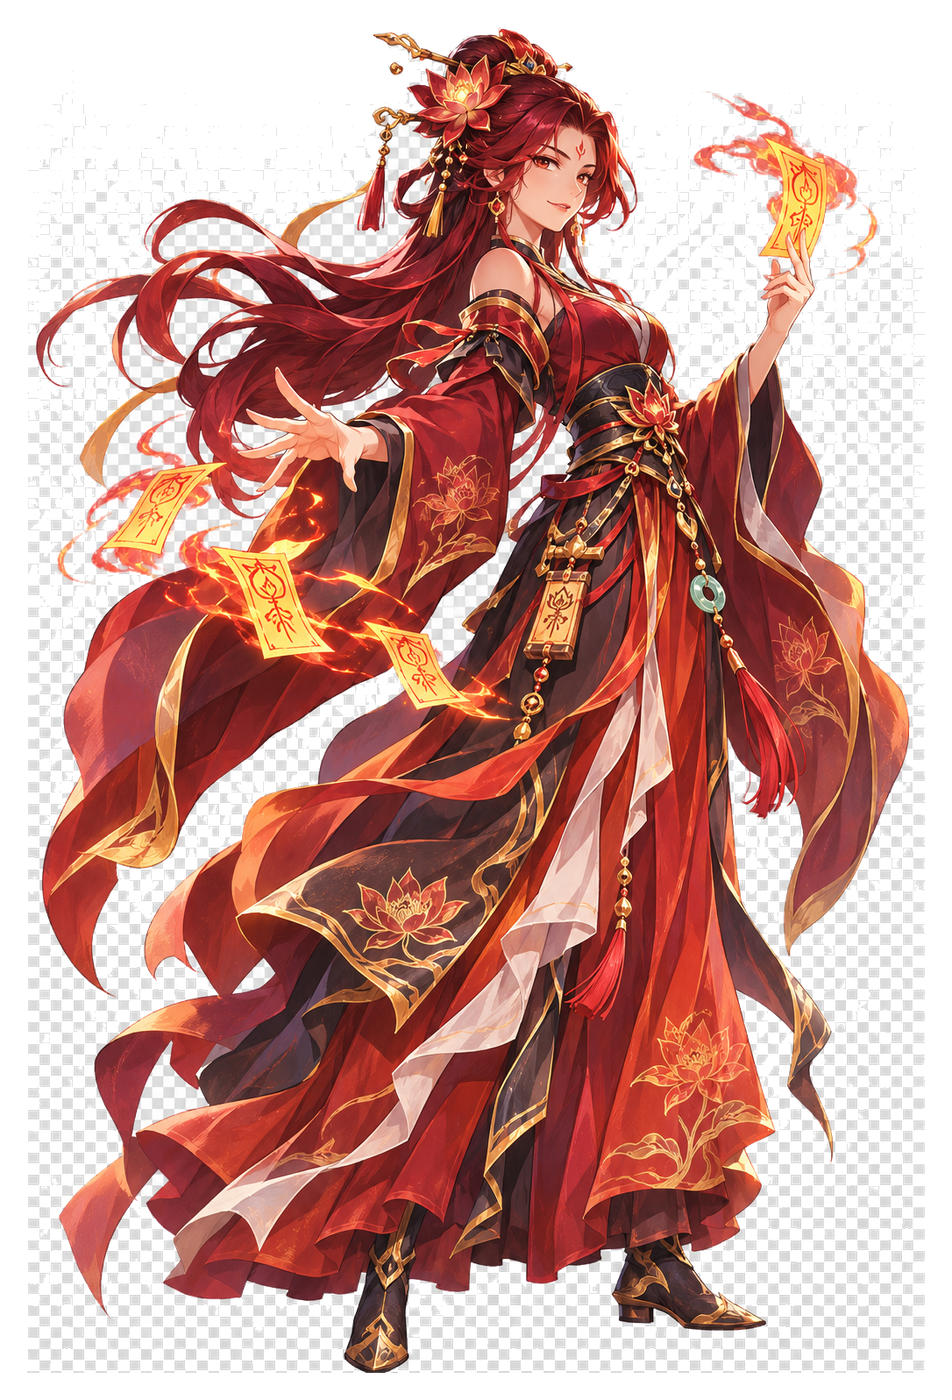
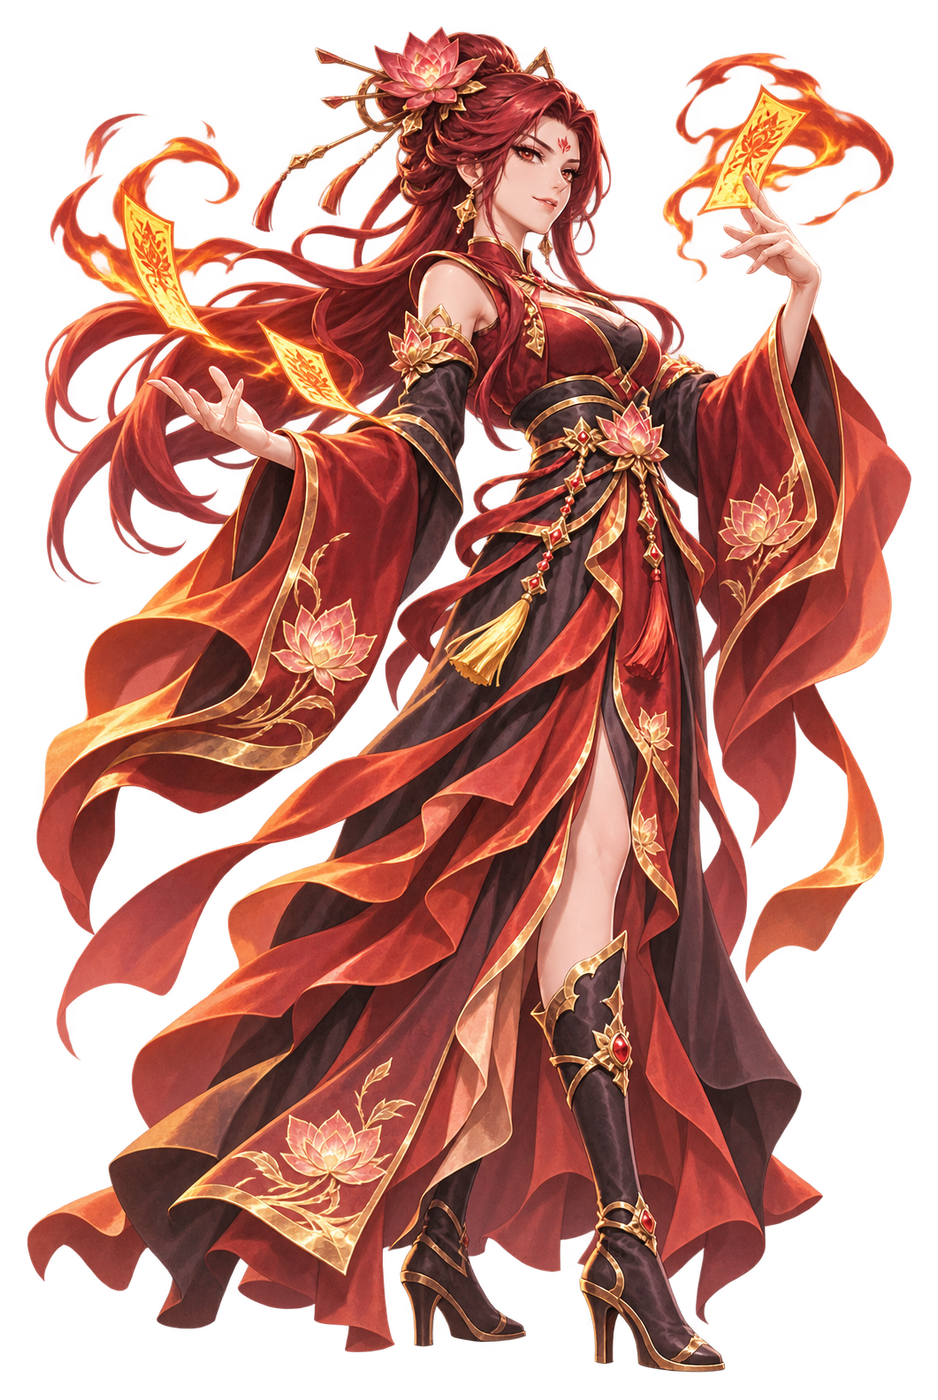
Art: all 16 disciple portraits + first enemy sprites; animated sprite-pack loader

diff --git a/src/battle/view/UnitView.ts b/src/battle/view/UnitView.ts
@@ -1,25 +1,19 @@
-import { Assets, ColorMatrixFilter, Container, Graphics, Sprite, Text, TextStyle, Texture } from 'pixi.js';
+import { AnimatedSprite, ColorMatrixFilter, Container, Graphics, Sprite, Text, TextStyle, Texture } from 'pixi.js';
 import gsap from 'gsap';
 import type { Unit } from '@/battle/sim/unit';
 import { STATUS_COLORS } from './Vfx';
+import { loadSpritePack, type SpritePack } from './SpritePack';
+import { loadUnitTexture } from './textures';
 
 const UNIT_HEIGHT = 150;
-
-/** Attempts to load a static sprite texture for a unit; caches misses. */
-const texCache = new Map<string, Promise<Texture | null>>();
-export function loadUnitTexture(sprite: string): Promise<Texture | null> {
-  let p = texCache.get(sprite);
-  if (!p) {
-    p = Assets.load<Texture>(`./assets/art/sprites/${sprite}.png`).catch(() => null);
-    texCache.set(sprite, p);
-  }
-  return p;
-}
 
 export class UnitView extends Container {
   readonly unit: Unit;
   private body = new Container();
-  private figure: Container | Sprite | null = null;
+  private figure: Container | Sprite | AnimatedSprite | null = null;
+  private pack: SpritePack | null = null;
+  private anim: AnimatedSprite | null = null;
+  private currentAnim = 'idle';
   private shadow = new Graphics();
   private aura: Graphics;
   private bars = new Container();
@@ -32,13 +26,14 @@ export class UnitView extends Container {
   private baseScale: number;
   private auraColor = 0x3fbf9f;
   private auraAlpha = 0.35;
+  private hasRealArt = false;
   dead = false;
   barWidth: number;
 
   constructor(unit: Unit) {
     super();
     this.unit = unit;
-    this.baseScale = unit.visualScale * (unit.boss ? 1 : 1);
+    this.baseScale = unit.visualScale;
     this.barWidth = unit.boss ? 160 : unit.elite ? 100 : 74;
 
     this.shadow.ellipse(0, 0, 34 * this.baseScale, 12 * this.baseScale).fill({ color: 0x000000, alpha: 0.45 });
@@ -55,7 +50,7 @@ export class UnitView extends Container {
     this.brightness.enabled = false;
 
     this.buildPlaceholder();
-    void this.tryLoadSprite();
+    void this.tryLoadArt();
 
     this.bars.y = -UNIT_HEIGHT * this.baseScale - 26;
     this.addChild(this.bars);
@@ -76,17 +71,57 @@ export class UnitView extends Container {
     this.refreshBars();
   }
 
-  private async tryLoadSprite(): Promise<void> {
+  /** Prefer an animated sprite pack, then a static PNG, else keep the procedural placeholder. */
+  private async tryLoadArt(): Promise<void> {
+    const pack = await loadSpritePack(this.unit.sprite);
+    if (this.destroyed) return;
+    if (pack && pack.anims.idle?.length) {
+      this.pack = pack;
+      const a = new AnimatedSprite(pack.anims.idle);
+      a.anchor.set(0.5 + (pack.def.anchorX ?? 0) / pack.def.frameW, pack.def.anchorY ?? 0.96);
+      const h = (pack.def.height ?? UNIT_HEIGHT) * this.baseScale;
+      a.scale.set(h / pack.def.frameH);
+      a.animationSpeed = (pack.def.animations.idle.fps ?? pack.def.fps) / 60;
+      a.loop = true;
+      a.play();
+      this.body.removeChildren();
+      this.figure = a;
+      this.anim = a;
+      this.body.addChild(a);
+      this.hasRealArt = true;
+      return;
+    }
     const tex = await loadUnitTexture(this.unit.sprite);
     if (!tex || this.destroyed) return;
     const s = new Sprite(tex);
     s.anchor.set(0.5, 1);
     const h = UNIT_HEIGHT * this.baseScale;
-    const sc = h / s.texture.height;
-    s.scale.set(sc);
+    s.scale.set(h / s.texture.height);
     this.body.removeChildren();
     this.figure = s;
     this.body.addChild(s);
+    this.hasRealArt = true;
+  }
+
+  /** Plays a pack animation if available; returns true when handled. */
+  private playAnim(name: string, onDone?: () => void): boolean {
+    const a = this.anim;
+    const frames = this.pack?.anims[name];
+    if (!a || !frames || frames.length === 0) return false;
+    const def = this.pack!.def.animations[name];
+    this.currentAnim = name;
+    a.textures = frames;
+    a.animationSpeed = (def.fps ?? this.pack!.def.fps) / 60;
+    a.loop = !!def.loop;
+    a.gotoAndPlay(0);
+    if (!def.loop) {
+      a.onComplete = () => {
+        a.onComplete = undefined;
+        onDone?.();
+        if (!this.dead) this.playAnim('idle');
+      };
+    }
+    return true;
   }
 
   /** Procedural "paper cutout" cultivator used until real art is loaded. */
@@ -97,38 +132,26 @@ export class UnitView extends Container {
     const s = this.baseScale;
     const g = new Graphics();
     if (u.side === 'ally') {
-      // robe
       g.moveTo(-26 * s, 0).lineTo(26 * s, 0).lineTo(16 * s, -78 * s).lineTo(-16 * s, -78 * s).closePath().fill({ color: accent });
       g.moveTo(-26 * s, 0).lineTo(26 * s, 0).lineTo(20 * s, -24 * s).lineTo(-20 * s, -24 * s).closePath().fill({ color: 0x000000, alpha: 0.25 });
-      // sash
       g.rect(-17 * s, -50 * s, 34 * s, 7 * s).fill({ color: 0xf3cf78 });
-      // shoulders
       g.ellipse(0, -80 * s, 22 * s, 9 * s).fill({ color: darken(accent, 0.75) });
-      // head
       g.circle(0, -100 * s, 17 * s).fill({ color: 0xf1d2b0 });
-      // hair
       g.arc(0, -102 * s, 17 * s, Math.PI, Math.PI * 2).fill({ color: 0x1b1a24 });
       g.rect(-17 * s, -104 * s, 34 * s, 6 * s).fill({ color: 0x1b1a24 });
-      // topknot
       g.circle(0, -121 * s, 6 * s).fill({ color: 0x1b1a24 });
-      // weapon hint
       if (u.classes.includes('sword')) g.moveTo(22 * s, -70 * s).lineTo(40 * s, -130 * s).stroke({ color: 0xdfe9ea, width: 3 * s });
       if (u.classes.includes('martial')) g.moveTo(-30 * s, -20 * s).lineTo(-30 * s, -140 * s).stroke({ color: 0xb08a5a, width: 4 * s });
       if (u.classes.includes('talisman') || u.classes.includes('array')) g.circle(30 * s, -90 * s, 8 * s).fill({ color: 0xffe066, alpha: 0.9 });
     } else {
       const dark = u.boss ? 0x3b1020 : 0x2a1a24;
-      // beast / demon body
       g.ellipse(0, -40 * s, 36 * s, 42 * s).fill({ color: dark });
       g.ellipse(0, -40 * s, 30 * s, 34 * s).fill({ color: darken(accent, 0.5), alpha: 0.7 });
-      // head
       g.circle(0, -92 * s, 20 * s).fill({ color: dark });
-      // horns
       g.moveTo(-12 * s, -106 * s).lineTo(-26 * s, -134 * s).lineTo(-4 * s, -110 * s).closePath().fill({ color: accent });
       g.moveTo(12 * s, -106 * s).lineTo(26 * s, -134 * s).lineTo(4 * s, -110 * s).closePath().fill({ color: accent });
-      // eyes
       g.circle(-7 * s, -94 * s, 3.5 * s).fill({ color: 0xff6b5a });
       g.circle(7 * s, -94 * s, 3.5 * s).fill({ color: 0xff6b5a });
-      // claws
       g.moveTo(-34 * s, -30 * s).lineTo(-48 * s, -8 * s).stroke({ color: accent, width: 3 * s });
       g.moveTo(34 * s, -30 * s).lineTo(48 * s, -8 * s).stroke({ color: accent, width: 3 * s });
     }
@@ -138,7 +161,6 @@ export class UnitView extends Container {
       style: new TextStyle({ fontFamily: 'Ma Shan Zheng', fontSize: 26 * s, fill: '#ffffff', stroke: { color: '#000000', width: 3 } }),
     });
     glyph.anchor.set(0.5);
-    glyph.x = 0;
     glyph.y = u.side === 'ally' ? -40 * s : -42 * s;
     c.addChild(glyph);
     this.figure = c;
@@ -146,16 +168,13 @@ export class UnitView extends Container {
   }
 
   setFacing(f: 1 | -1): void {
-    this.body.scale.x = f;
+    this.body.scale.x = f * Math.abs(this.body.scale.x || 1);
   }
 
-  /** Called every frame. */
   update(time: number, idleSpeed = 1): void {
     if (this.dead) return;
-    const u = this.unit;
-    // idle bob
-    const bob = Math.sin(time * 2.2 * idleSpeed + this.bob) * 2;
-    this.body.y = bob;
+    // idle bob only for non-animated figures
+    if (!this.anim) this.body.y = Math.sin(time * 2.2 * idleSpeed + this.bob) * (this.hasRealArt ? 1.5 : 2);
     this.aura.alpha = this.auraAlpha + Math.sin(time * 3 + this.bob) * 0.1;
     this.refreshBars();
   }
@@ -172,7 +191,6 @@ export class UnitView extends Container {
     g.rect(-w / 2, -h, w * hp, h).fill({ color: u.side === 'ally' ? 0x4fd36a : 0xd7382c });
     if (hp > 0) g.rect(-w / 2, -h, w * hp, h * 0.4).fill({ color: 0xffffff, alpha: 0.18 });
     if (shield > 0) g.rect(-w / 2, -h, w * Math.min(1, shield), h).fill({ color: 0xbfe4ff, alpha: 0.85 });
-    // segment ticks every 500 hp for bosses
     if (u.boss) {
       const segs = Math.floor(u.maxHp / 1000);
       for (let i = 1; i < segs; i++) {
@@ -187,7 +205,6 @@ export class UnitView extends Container {
       q.roundRect(-w / 2 - 1, 2, w + 2, qh + 2, 1).fill({ color: 0x000000, alpha: 0.7 });
       q.rect(-w / 2, 3, w * Math.min(1, u.qi / u.maxQi), qh).fill({ color: 0x5ab8ff });
     }
-    // statuses
     this.statusRow.removeChildren();
     const chips: { color: number; text: string }[] = [];
     if (u.burns.length) chips.push({ color: STATUS_COLORS.burn, text: `${Math.round(u.burns.reduce((a, b) => a + b.dps, 0))}` });
@@ -195,9 +212,6 @@ export class UnitView extends Container {
     if (u.frost > 0) chips.push({ color: STATUS_COLORS.frost, text: `${Math.round(u.frost)}` });
     if (u.bleeds.length) chips.push({ color: STATUS_COLORS.bleed, text: '' });
     if (u.tauntTargetId !== null) chips.push({ color: STATUS_COLORS.taunt, text: '!' });
-    if (u.isDisabled(Infinity) === false && (u.stunUntil > 0 || u.frozenUntil > 0)) {
-      /* no-op */
-    }
     let x = -((chips.length - 1) * 24) / 2;
     for (const ch of chips) {
       const c = new Graphics();
@@ -222,10 +236,14 @@ export class UnitView extends Container {
     return -UNIT_HEIGHT * this.baseScale * 0.5;
   }
 
-  /** Lunge toward facing direction. */
   attackAnim(ranged: boolean): void {
     const dir = this.body.scale.x >= 0 ? 1 : -1;
     const tl = gsap.timeline();
+    if (this.playAnim('attack')) {
+      // small forward push even with sheet animation for impact
+      tl.to(this.body, { x: 10 * dir, duration: 0.1, ease: 'power2.out' }).to(this.body, { x: 0, duration: 0.3, ease: 'power2.out' });
+      return;
+    }
     if (ranged) {
       tl.to(this.body, { x: -10 * dir, duration: 0.08, ease: 'power2.out' }).to(this.body, { x: 0, duration: 0.25, ease: 'power2.out' });
       tl.to(this.body.scale, { y: 1.06, duration: 0.08, yoyo: true, repeat: 1 }, 0);
@@ -236,14 +254,17 @@ export class UnitView extends Container {
   }
 
   castAnim(): void {
-    const tl = gsap.timeline();
-    tl.to(this.body.scale, { y: 1.12, duration: 0.15, ease: 'power2.out' }).to(this.body.scale, { y: 1, duration: 0.25, ease: 'back.out(2)' });
+    if (!this.playAnim('cast') && !this.playAnim('attack')) {
+      const tl = gsap.timeline();
+      tl.to(this.body.scale, { y: 1.12, duration: 0.15, ease: 'power2.out' }).to(this.body.scale, { y: 1, duration: 0.25, ease: 'back.out(2)' });
+    }
     this.pulseAura(0xffffff, 0.9, 0.5);
   }
 
   hurtAnim(crit: boolean): void {
     this.flash(crit ? 2.2 : 1.6, crit ? 0.14 : 0.09);
     const dir = this.body.scale.x >= 0 ? 1 : -1;
+    if (this.currentAnim === 'idle') this.playAnim('hurt');
     gsap.fromTo(this.body, { x: -6 * dir }, { x: 0, duration: 0.18, ease: 'power2.out', overwrite: 'auto' });
   }
 
@@ -260,10 +281,20 @@ export class UnitView extends Container {
     const g = this.aura;
     g.clear();
     g.ellipse(0, 0, 38 * this.baseScale, 14 * this.baseScale).stroke({ color, width: 3, alpha: 0.9 });
-    gsap.fromTo(g, { alpha }, { alpha: this.auraAlpha, duration, ease: 'power2.out', overwrite: 'auto', onComplete: () => {
-      g.clear();
-      g.ellipse(0, 0, 38 * this.baseScale, 14 * this.baseScale).stroke({ color: this.auraColor, width: 3, alpha: 0.9 });
-    } });
+    gsap.fromTo(
+      g,
+      { alpha },
+      {
+        alpha: this.auraAlpha,
+        duration,
+        ease: 'power2.out',
+        overwrite: 'auto',
+        onComplete: () => {
+          g.clear();
+          g.ellipse(0, 0, 38 * this.baseScale, 14 * this.baseScale).stroke({ color: this.auraColor, width: 3, alpha: 0.9 });
+        },
+      },
+    );
   }
 
   setAura(color: number, alpha: number): void {
@@ -277,8 +308,8 @@ export class UnitView extends Container {
     this.dead = true;
     this.bars.visible = false;
     const dir = this.body.scale.x >= 0 ? 1 : -1;
-    gsap.to(this.body, { rotation: -0.35 * dir, y: 10, duration: 0.5, ease: 'power2.in' });
-    gsap.to(this, { alpha: 0, duration: 0.7, delay: 0.3, ease: 'power1.in' });
+    if (!this.playAnim('death')) gsap.to(this.body, { rotation: -0.35 * dir, y: 10, duration: 0.5, ease: 'power2.in' });
+    gsap.to(this, { alpha: 0, duration: 0.7, delay: 0.5, ease: 'power1.in' });
     gsap.to(this.shadow, { alpha: 0, duration: 0.5 });
     this.brightness.reset();
     this.brightness.desaturate();
@@ -295,6 +326,7 @@ export class UnitView extends Container {
     this.body.y = 0;
     this.alpha = 1;
     this.shadow.alpha = 1;
+    this.playAnim('idle');
     gsap.fromTo(this.body.scale, { y: 0.4 }, { y: 1, duration: 0.5, ease: 'back.out(2)' });
   }
 
@@ -317,3 +349,5 @@ export function darken(c: number, f: number): number {
   const b = Math.round((c & 255) * f);
   return (r << 16) | (g << 8) | b;
 }
+
+export { loadUnitTexture, type Texture };

diff --git a/src/battle/view/SpritePack.ts b/src/battle/view/SpritePack.ts
@@ -1,0 +1,58 @@
+import { Assets, Rectangle, Texture } from 'pixi.js';
+
+/**
+ * Animated sprite packs live in /assets/art/sprites/<id>/pack.json with horizontal strip sheets:
+ * {
+ *   "frameW": 256, "frameH": 256, "fps": 12, "anchorY": 0.96,
+ *   "animations": { "idle": { "sheet": "idle.png", "frames": 12, "loop": true }, "attack": { "sheet": "attack.png", "frames": 10, "hitFrame": 5 }, ... }
+ * }
+ * Autosprite exports are converted into this format by scripts/convert-autosprite.mjs.
+ */
+export interface SpritePackDef {
+  frameW: number;
+  frameH: number;
+  fps: number;
+  anchorY?: number;
+  /** Horizontal offset of the feet from the frame center, in frame pixels. */
+  anchorX?: number;
+  /** Visual height in design pixels at scale 1 (defaults to 150). */
+  height?: number;
+  animations: Record<string, { sheet: string; frames: number; loop?: boolean; hitFrame?: number; fps?: number; rows?: number; cols?: number }>;
+}
+
+export interface SpritePack {
+  def: SpritePackDef;
+  anims: Record<string, Texture[]>;
+}
+
+const cache = new Map<string, Promise<SpritePack | null>>();
+
+export function loadSpritePack(id: string): Promise<SpritePack | null> {
+  let p = cache.get(id);
+  if (!p) {
+    p = load(id).catch(() => null);
+    cache.set(id, p);
+  }
+  return p;
+}
+
+async function load(id: string): Promise<SpritePack | null> {
+  const base = `./assets/art/sprites/${id}/`;
+  const res = await fetch(`${base}pack.json`, { cache: 'force-cache' });
+  if (!res.ok) return null;
+  const def = (await res.json()) as SpritePackDef;
+  const anims: Record<string, Texture[]> = {};
+  for (const [name, a] of Object.entries(def.animations)) {
+    const sheet = await Assets.load<Texture>(`${base}${a.sheet}`);
+    const cols = a.cols ?? Math.max(1, Math.floor(sheet.width / def.frameW));
+    const frames: Texture[] = [];
+    for (let i = 0; i < a.frames; i++) {
+      const col = i % cols;
+      const row = Math.floor(i / cols);
+      const frame = new Rectangle(col * def.frameW, row * def.frameH, def.frameW, def.frameH);
+      frames.push(new Texture({ source: sheet.source, frame }));
+    }
+    anims[name] = frames;
+  }
+  return { def, anims };
+}

diff --git a/src/battle/view/textures.ts b/src/battle/view/textures.ts
@@ -1,0 +1,18 @@
+import { Assets, Texture } from 'pixi.js';
+
+/** Attempts to load a static sprite texture for a unit; caches misses. */
+const texCache = new Map<string, Promise<Texture | null>>();
+
+export function loadUnitTexture(sprite: string): Promise<Texture | null> {
+  let p = texCache.get(sprite);
+  if (!p) {
+    p = Assets.load<Texture>(`./assets/art/sprites/${sprite}.png`).catch(() => null);
+    texCache.set(sprite, p);
+  }
+  return p;
+}
+
+/** Preloads the static sprites for a list of unit sprite keys (used before a battle). */
+export async function preloadSprites(keys: string[]): Promise<void> {
+  await Promise.all(keys.map((k) => loadUnitTexture(k)));
+}
